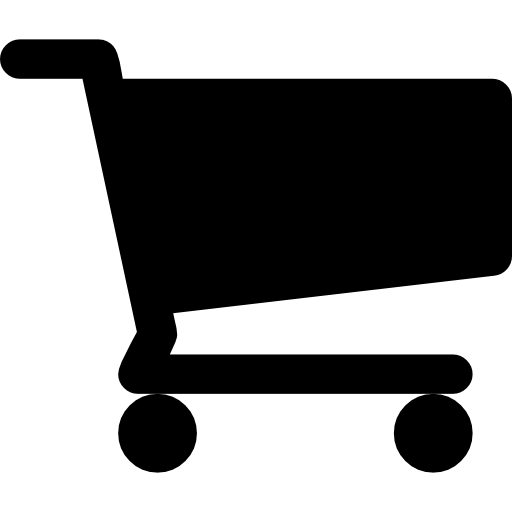
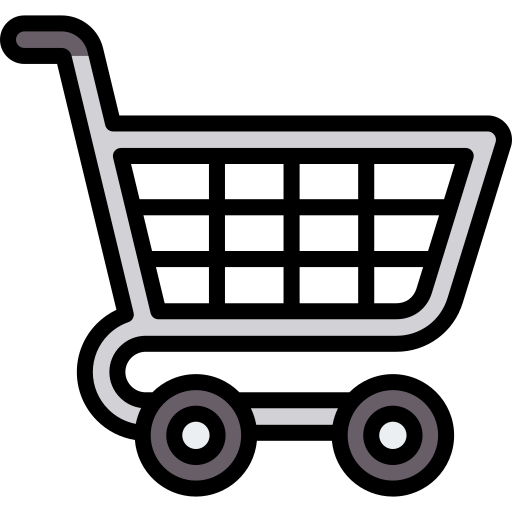
Menu de arriba

diff --git a/descarga.html b/descarga.html
@@ -1,44 +1,96 @@
 <!DOCTYPE html>
 <html lang="es">
+
 <head>
     <meta charset="UTF-8">
     <meta name="viewport" content="width=device-width, initial-scale=1.0">
     <title>Document</title>
     <link rel="icon" href="recursos/imagenes/logo_sitio.png">
 </head>
+
 <body style="font-family: Arial, Helvetica, sans-serif; font-size: 16px;">
-    <div></div>
+
+    <table width="100%" style="background-color: black;">
+        <tr>
+            <td width="35%">
+                <p style="color: white;">Descubre la Nuevísima </p>
+            </td>
+            <td width="65%">
+                <nav aria-label="Menú principal" style="font-size: 16px; align-items: center; ">
+                    <a href="https://www.embarcadero.com/es/products" target="_blank" rel="noopener"
+                        style="color: white;">Centro de actualización</a>
+                    <a href="https://www.embarcadero.com/es/free-tools" target="_blank" rel="noopener"
+                        style="color: white;">Nuevo portal para clientes</a>
+                    <a href="https://blogs.embarcadero.com" target="_blank" rel="noopener"
+                        style="color: white;">Contacto</a>
+
+                    <a href="https://getitnow.embarcadero.com/" target="_blank" rel="noopener" style="color: white;">
+                    </a>
+
+            <td>
+                <a href="#" target="_blank" rel="noopener" style="color: white;">
+                    <img src="recursos/imagenes/buscador.png" alt="buscador" width="25" height="25">
+                </a>
+            </td>
+
+
+            <td>
+                <a href="https://store.embarcadero.com/nbcx/542/checkout/steps/default?id=4Ybw4eovdK" target="_blank" rel="noopener" style="color: white;">
+                    <img src="recursos/imagenes/carritocompras.png" alt="carritocompras" width="25" height="25">
+                </a>
+            </td>
+
+            <td>
+                <a href="#" target="_blank" rel="noopener" style="color: white;">
+                    <img src="recursos/imagenes/idioma.png" alt="carritocompras" width="25" height="25">
+                </a>
+            </td>
+
+            </nav>
+            </td>
+        </tr>
+    </table>
+
+
 
     <table width="100%" style="background-color: white;">
-    <tr>
-      <td width="25%">
-        <a href="index.html">
-          <img src="recursos/imagenes/logo.png" alt="Embarcadero" width="25%" height="99%">
-        </a>
-      </td>
-      <td width="75%">
-        <nav aria-label="Menú principal" style="font-size: 16px; align-items: center; " >
-          <a href="https://www.embarcadero.com/es/products" target="_blank" rel="noopener" style="color: black;">Productos</a> 
-          <a href="https://www.embarcadero.com/es/free-tools" target="_blank" rel="noopener" style="color: black;">Herramientas gratis</a> 
-          <a href="https://blogs.embarcadero.com" target="_blank" rel="noopener" style="color: black;">Blogs</a> 
-          <a href="https://www.embarcadero.com/es/resources" target="_blank" rel="noopener" style="color: black;">Recursos</a> 
-          <a href="https://getitnow.embarcadero.com/" target="_blank" rel="noopener" style="color: black;">GetIt</a> 
-          <button style="background-color: red">
-            <a href="https://www.embarcadero.com/es/app-development-tools-store" target="_blank" rel="noopener" style="color: white;">
-                <strong>Compra ahora</strong>
-            </a> 
-          </button>
-          <button style="background-color: beige;">
-            <a href="https://www.embarcadero.com/es/update-subscription" target="_blank" rel="noopener" style="color: black;">Renovar</a>
-          </button>
-          
-        </nav>
-      </td>
-    </tr>
-  </table>
+        <tr>
+            <td width="35%">
+                <a href="index.html">
+                    <img src="recursos/imagenes/logo.png" alt="Embarcadero" width="25%" height="99%">
+                </a>
+            </td>
+            <td width="65%">
+                <nav aria-label="Menú principal" style="font-size: 16px; align-items: center; ">
+                    <a href="https://www.embarcadero.com/es/products" target="_blank" rel="noopener"
+                        style="color: black;">Productos</a>
+                    <a href="https://www.embarcadero.com/es/free-tools" target="_blank" rel="noopener"
+                        style="color: black;">Herramientas gratis</a>
+                    <a href="https://blogs.embarcadero.com" target="_blank" rel="noopener"
+                        style="color: black;">Blogs</a>
+                    <a href="https://www.embarcadero.com/es/resources" target="_blank" rel="noopener"
+                        style="color: black;">Recursos</a>
+                    <a href="https://getitnow.embarcadero.com/" target="_blank" rel="noopener"
+                        style="color: black;">GetIt</a>
+                    <button style="background-color: red">
+                        <a href="https://www.embarcadero.com/es/app-development-tools-store" target="_blank"
+                            rel="noopener" style="color: white;">
+                            <strong>Compra ahora</strong>
+                        </a>
+                    </button>
+                    <button style="background-color: beige;">
+                        <a href="https://www.embarcadero.com/es/update-subscription" target="_blank" rel="noopener"
+                            style="color: black;">Renovar</a>
+                    </button>
+
+                </nav>
+            </td>
+        </tr>
+    </table>
 
     <header style="text-align: center; background-color: beige;">
         <h1 style="font-size: 36px;">Descarga los <span style="color: red;">Embarcadero Dev-C++</span> gratuitos</h1>
     </header>
 </body>
+
 </html>
